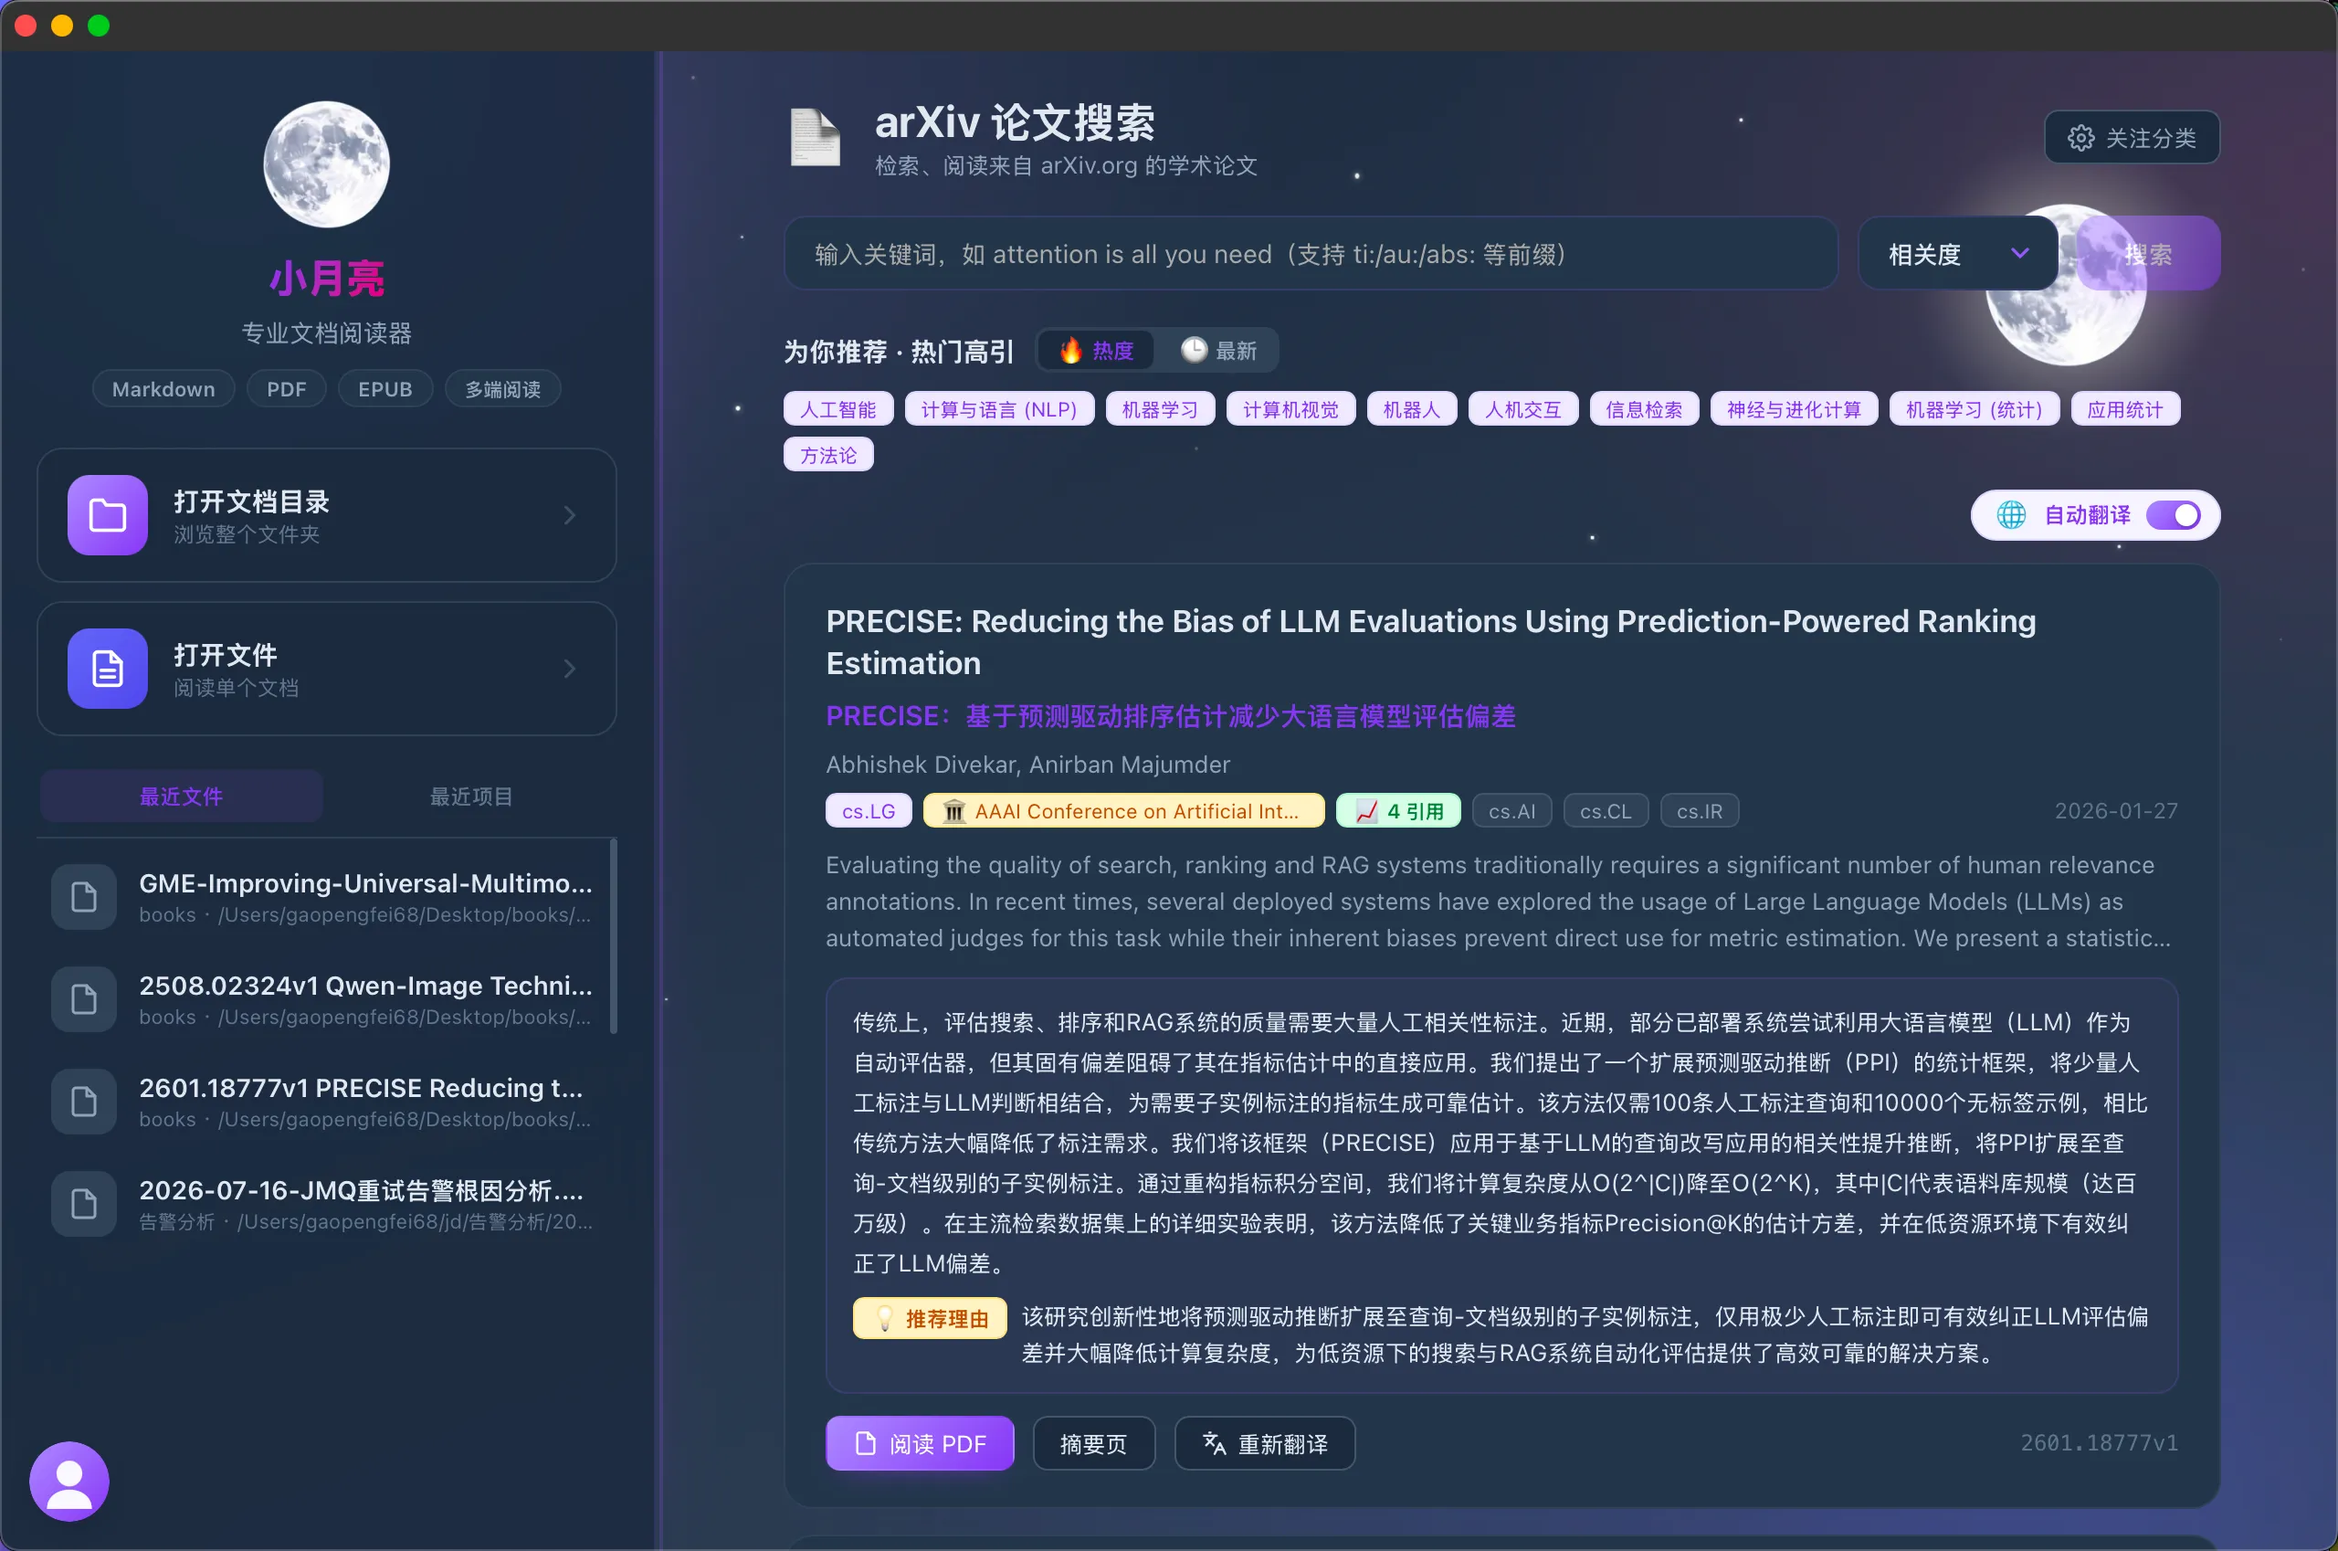
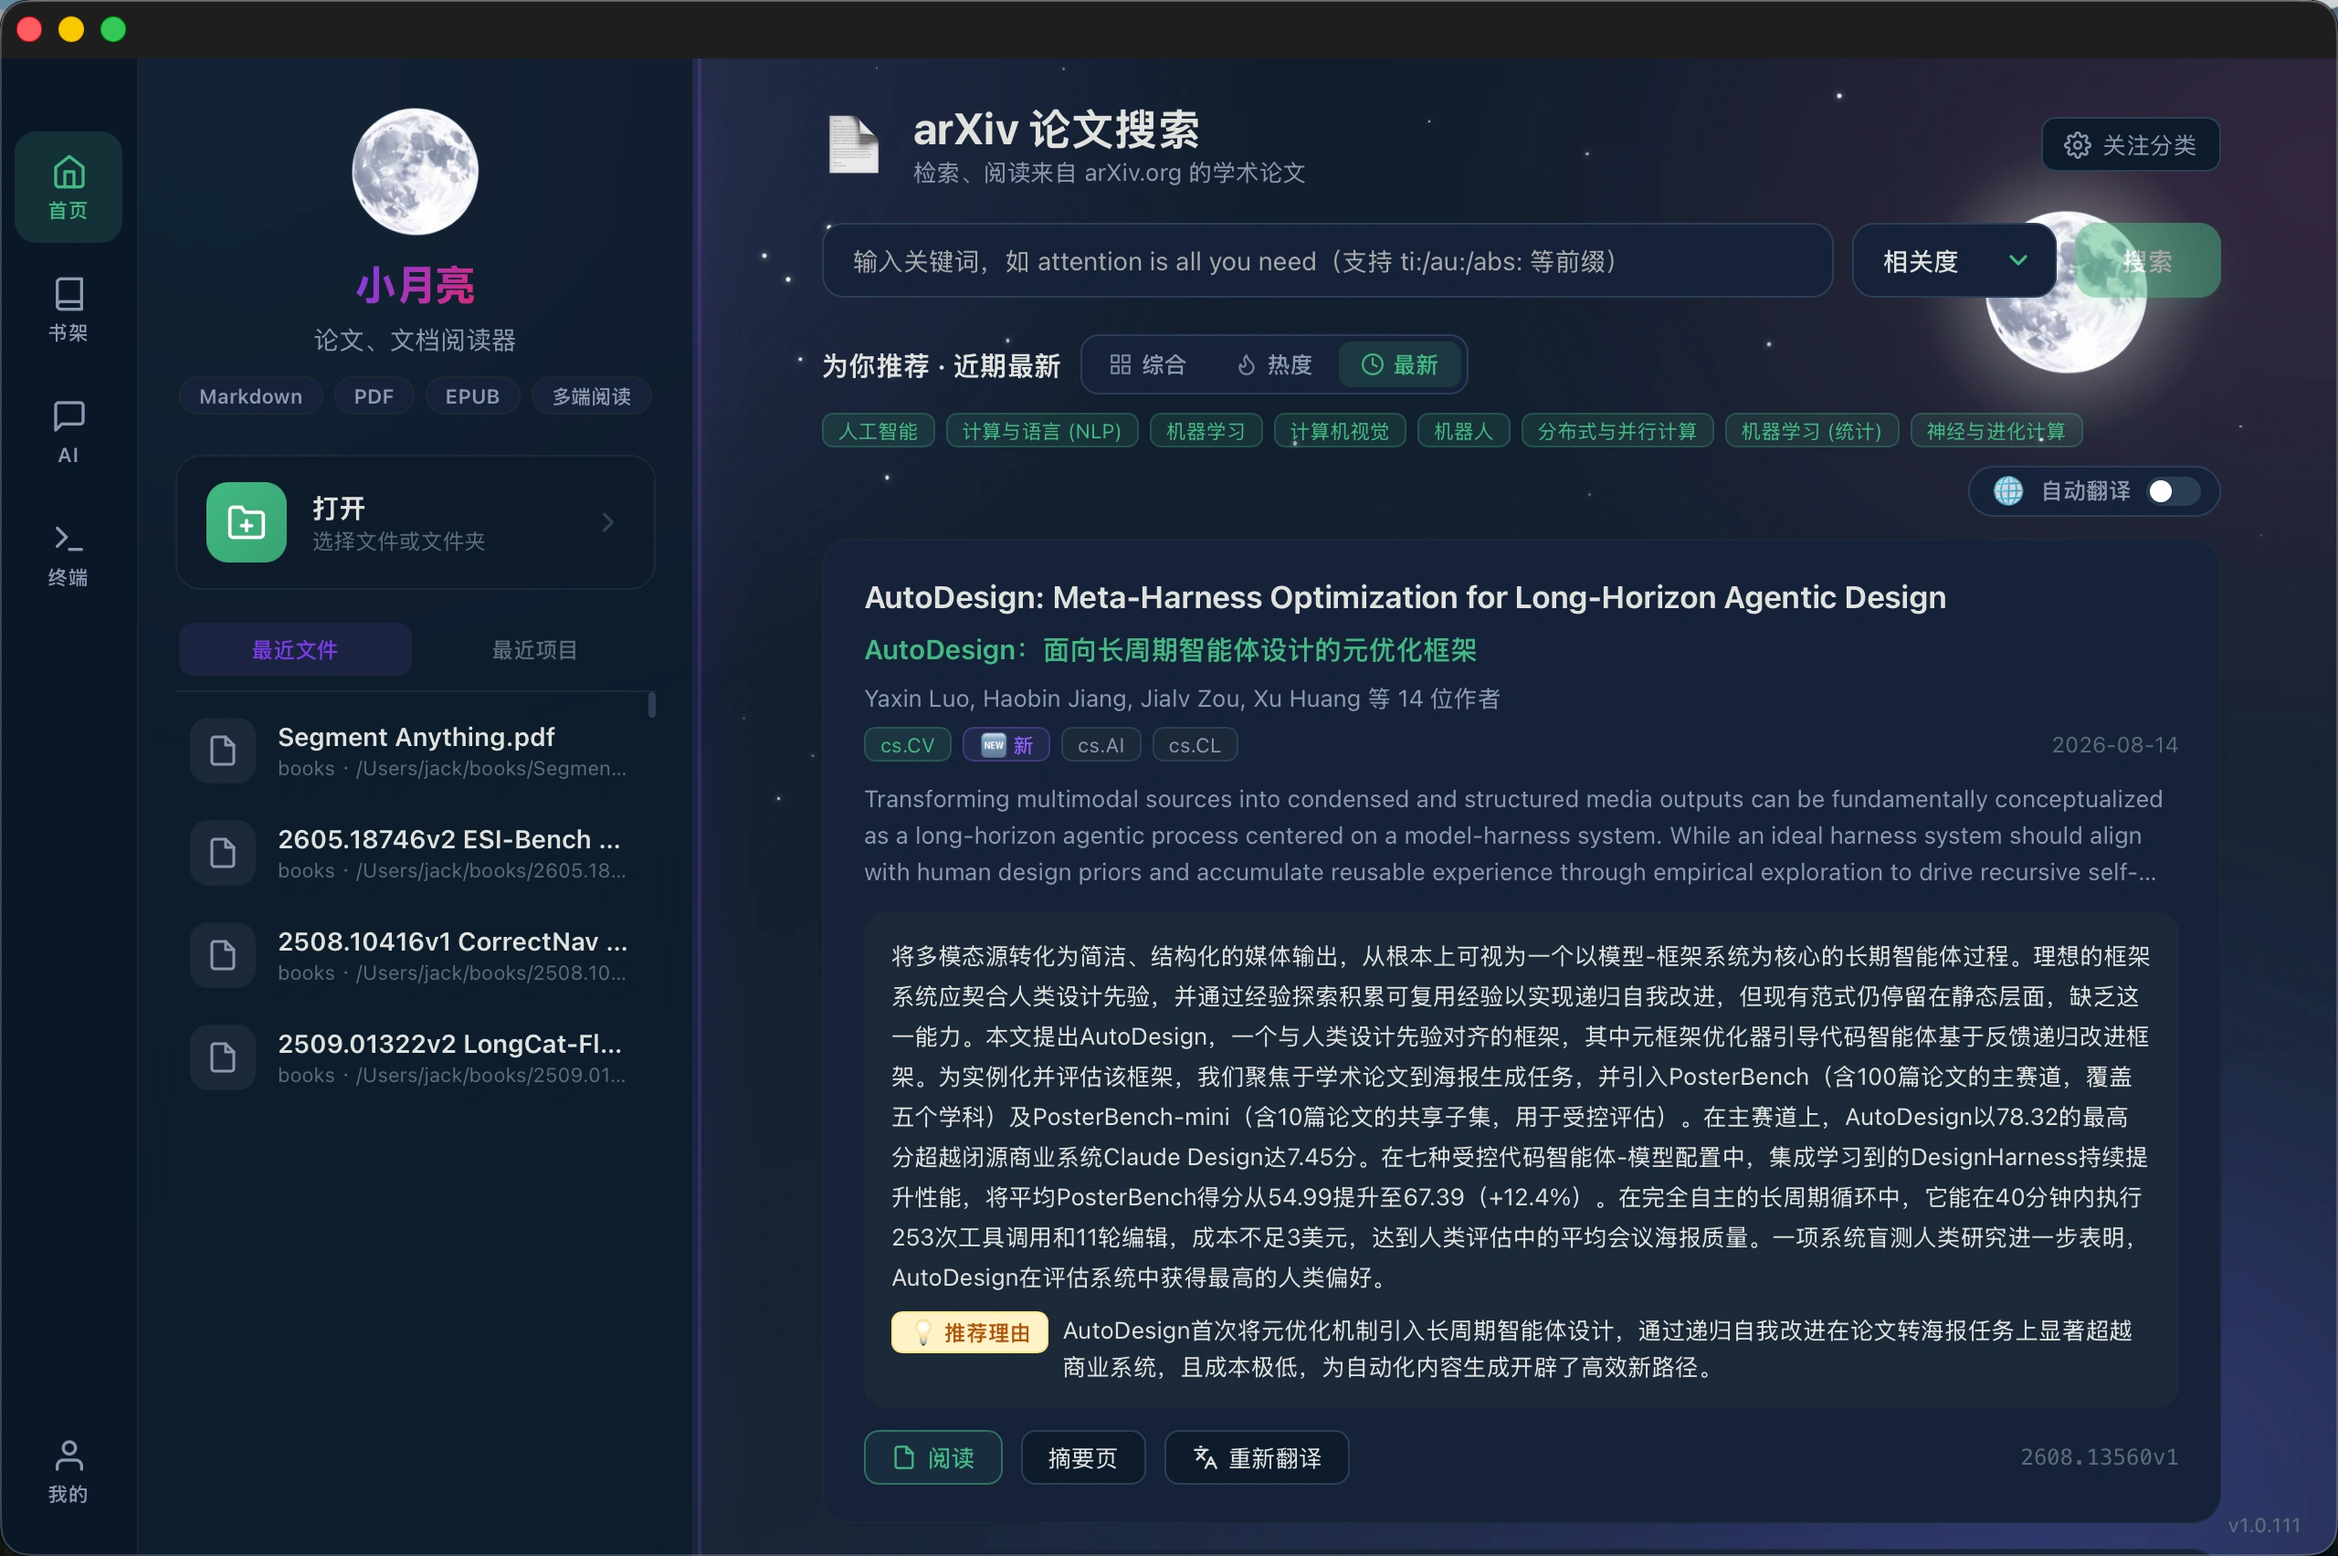
更新图片布局

diff --git a/index.html b/index.html
@@ -4,7 +4,7 @@
   <meta charset="UTF-8" />
   <meta name="viewport" content="width=device-width, initial-scale=1.0" />
   <title>小月亮阅读器 · JDK — Just Deep Knowledge</title>
-  <meta name="description" content="小月亮阅读器 · moon.jdk.plus — Just Deep Knowledge。ArXiv 顶会论文一键阅读、双语对照、AI 论文解读智能问答、极致 EPUB 阅读体验。" />
+  <meta name="description" content="小月亮阅读器 · moon.jdk.plus — Just Deep Knowledge。ArXiv 顶会论文一键阅读、双语对照、AI 论文解读智能问答、极致 EPUB 阅读体验、精美书架与向量化知识库。" />
   <link rel="icon" href="assets/moon.png" type="image/png" />
   <link rel="preconnect" href="https://fonts.googleapis.com" />
   <link rel="stylesheet" href="styles.css" />
@@ -45,10 +45,7 @@
       <p class="hero-desc">小月亮阅读器 · moon.jdk.plus</p>
     </div>
     <div class="hero-shot-frame">
-      <picture>
-        <source srcset="assets/shot-arxiv.webp" type="image/webp" />
-        <img src="assets/shot-arxiv.png" alt="小月亮阅读器 · ArXiv 论文推荐" />
-      </picture>
+      <img src="assets/shot-arxiv.webp" alt="小月亮阅读器 · ArXiv 论文推荐" width="2560" height="1704" fetchpriority="high" decoding="async" />
       <span class="hero-shot-shine" aria-hidden="true"></span>
     </div>
   </section>
@@ -118,6 +115,16 @@
         <h3>八种精美主题</h3>
         <p>从月夜深空到晨曦暖阳，八种自带主题随心切换，护眼与美感兼得。</p>
       </article>
+      <article class="feature-card reveal" style="--card-i:12">
+        <div class="feature-icon">📚</div>
+        <h3>精美书架</h3>
+        <p>封面式书架陈列，导入即归位，拖拽整理一目了然；书架搜索直达书页，让每一本书都有安放之处。</p>
+      </article>
+      <article class="feature-card reveal" style="--card-i:13">
+        <div class="feature-icon">🧬</div>
+        <h3>书架向量化</h3>
+        <p>书架内容自动向量化建库，跨书跨文档语义检索，自然语言提问直达原文精确位置，越读越懂你。</p>
+      </article>
     </div>
   </section>
 
@@ -130,7 +137,7 @@
         <div class="show-media" data-tilt>
           <span class="show-index">01</span>
           <div class="show-frame">
-            <picture><source srcset="assets/shot-arxiv.webp" type="image/webp" /><img src="assets/shot-arxiv.png" alt="ArXiv 顶会论文推荐一键阅读" loading="lazy" /></picture>
+            <img src="assets/shot-arxiv.webp" alt="ArXiv 顶会论文推荐一键阅读" width="2560" height="1704" loading="lazy" />
             <span class="show-shine" aria-hidden="true"></span>
           </div>
         </div>
@@ -145,7 +152,7 @@
         <div class="show-media" data-tilt>
           <span class="show-index">02</span>
           <div class="show-frame">
-            <picture><source srcset="assets/shot-bilingual.webp" type="image/webp" /><img src="assets/shot-bilingual.png" alt="双语对照阅读" loading="lazy" /></picture>
+            <img src="assets/shot-bilingual.webp" alt="双语对照阅读" width="2560" height="1698" loading="lazy" />
             <span class="show-shine" aria-hidden="true"></span>
           </div>
         </div>
@@ -160,7 +167,7 @@
         <div class="show-media" data-tilt>
           <span class="show-index">03</span>
           <div class="show-frame">
-            <picture><source srcset="assets/shot-qa.webp" type="image/webp" /><img src="assets/shot-qa.png" alt="论文解读智能问答" loading="lazy" /></picture>
+            <img src="assets/shot-qa.webp" alt="论文解读智能问答" width="2560" height="1640" loading="lazy" />
             <span class="show-shine" aria-hidden="true"></span>
           </div>
         </div>
@@ -175,7 +182,7 @@
         <div class="show-media" data-tilt>
           <span class="show-index">04</span>
           <div class="show-frame">
-            <picture><source srcset="assets/shot-epub.webp" type="image/webp" /><img src="assets/shot-epub.png" alt="极致的 EPUB 阅读体验" loading="lazy" /></picture>
+            <img src="assets/shot-epub.webp" alt="极致的 EPUB 阅读体验" width="2560" height="1642" loading="lazy" />
             <span class="show-shine" aria-hidden="true"></span>
           </div>
         </div>
@@ -183,6 +190,36 @@
           <span class="show-tag">沉浸 · EPUB</span>
           <h3>极致的 EPUB 阅读体验</h3>
           <p>细腻翻页动效、随手标注批注、精心打磨的排版细节，还原纸书般的沉浸，让阅读回归纯粹。</p>
+        </div>
+      </article>
+
+      <article class="show-row reveal">
+        <div class="show-media" data-tilt>
+          <span class="show-index">05</span>
+          <div class="show-frame">
+            <img src="assets/shot-bookshelf.webp" alt="精美书架" width="2560" height="1640" loading="lazy" />
+            <span class="show-shine" aria-hidden="true"></span>
+          </div>
+        </div>
+        <div class="show-text">
+          <span class="show-tag">收纳 · Bookshelf</span>
+          <h3>精美书架 · 你的私人书房</h3>
+          <p>封面式书架陈列管理，导入即归位，拖拽整理一目了然；书架搜索直达书页精确位置，让每一本书都有安放之处。</p>
+        </div>
+      </article>
+
+      <article class="show-row reverse reveal">
+        <div class="show-media" data-tilt>
+          <span class="show-index">06</span>
+          <div class="show-frame">
+            <img src="assets/shot-rag.webp" alt="书架向量化 RAG" width="2560" height="1640" loading="lazy" />
+            <span class="show-shine" aria-hidden="true"></span>
+          </div>
+        </div>
+        <div class="show-text">
+          <span class="show-tag">智能 · RAG</span>
+          <h3>书架向量化 · 知识库语义检索</h3>
+          <p>读过的每一页自动向量化建库，跨书跨文档自然语言检索，提问直达原文精确位置，知识随读随存、越读越懂你。</p>
         </div>
       </article>
     </div>
@@ -303,7 +340,7 @@
     <h2 class="section-title reveal">八种主题，随心而变</h2>
     <p class="section-lead reveal">让阅读的每一刻都恰到好处。</p>
     <figure class="theme-showcase reveal">
-      <picture><source srcset="assets/shot-themes.webp" type="image/webp" /><img src="assets/shot-themes.png" alt="八种默认自带主题" loading="lazy" /></picture>
+      <img src="assets/shot-themes.webp" alt="八种默认自带主题" width="2560" height="1640" loading="lazy" />
     </figure>
   </section>
 

diff --git a/styles.css b/styles.css
@@ -210,7 +210,7 @@ body {
     inset 0 0 0 1px rgba(255,255,255,.08);
 }
 .hero-shot-frame img {
-  width: 100%; display: block;
+  width: 100%; height: auto; display: block;
   transition: transform .6s cubic-bezier(.2,.7,.2,1);
 }
 .hero-shot-frame:hover img { transform: scale(1.04); }
@@ -331,7 +331,7 @@ body {
   box-shadow: 0 40px 100px rgba(120,90,220,.45), inset 0 0 0 1px rgba(201,166,255,.35);
 }
 .show-frame img {
-  width: 100%; display: block;
+  width: 100%; height: auto; display: block;
   transition: transform .6s cubic-bezier(.2,.7,.2,1);
 }
 .show-frame { cursor: pointer; }
@@ -370,7 +370,7 @@ body {
   border: 1px solid var(--card-brd);
   box-shadow: 0 20px 60px rgba(0,0,0,.4);
 }
-.theme-showcase img { width: 100%; display: block; }
+.theme-showcase img { width: 100%; height: auto; display: block; }
 
 /* ===== CTA ===== */
 .cta { text-align: center; }

diff --git a/README.md b/README.md
@@ -135,11 +135,13 @@
 
 | | |
 | --- | --- |
-| 📡 **ArXiv 顶会论文推荐 · 一键阅读** | <img src="assets/shot-arxiv.png" width="460" alt="ArXiv 推荐" /> |
-| 🌐 **双语对照阅读** | <img src="assets/shot-bilingual.png" width="460" alt="双语对照" /> |
-| 🤖 **论文解读 · 智能问答** | <img src="assets/shot-qa.png" width="460" alt="AI 问答" /> |
-| 📖 **极致的 EPUB 阅读体验** | <img src="assets/shot-epub.png" width="460" alt="EPUB" /> |
-| 🎨 **八种主题，随心而变** | <img src="assets/shot-themes.png" width="460" alt="主题" /> |
+| 📡 **ArXiv 顶会论文推荐 · 一键阅读** | <img src="assets/shot-arxiv.webp" width="460" alt="ArXiv 推荐" /> |
+| 🌐 **双语对照阅读** | <img src="assets/shot-bilingual.webp" width="460" alt="双语对照" /> |
+| 🤖 **论文解读 · 智能问答** | <img src="assets/shot-qa.webp" width="460" alt="AI 问答" /> |
+| 📖 **极致的 EPUB 阅读体验** | <img src="assets/shot-epub.webp" width="460" alt="EPUB" /> |
+| 📚 **精美书架 · 私人书房** | <img src="assets/shot-bookshelf.webp" width="460" alt="书架" /> |
+| 🧬 **书架向量化 · 知识库语义检索** | <img src="assets/shot-rag.webp" width="460" alt="书架向量化" /> |
+| 🎨 **八种主题，随心而变** | <img src="assets/shot-themes.webp" width="460" alt="主题" /> |
 
 </div>
 
